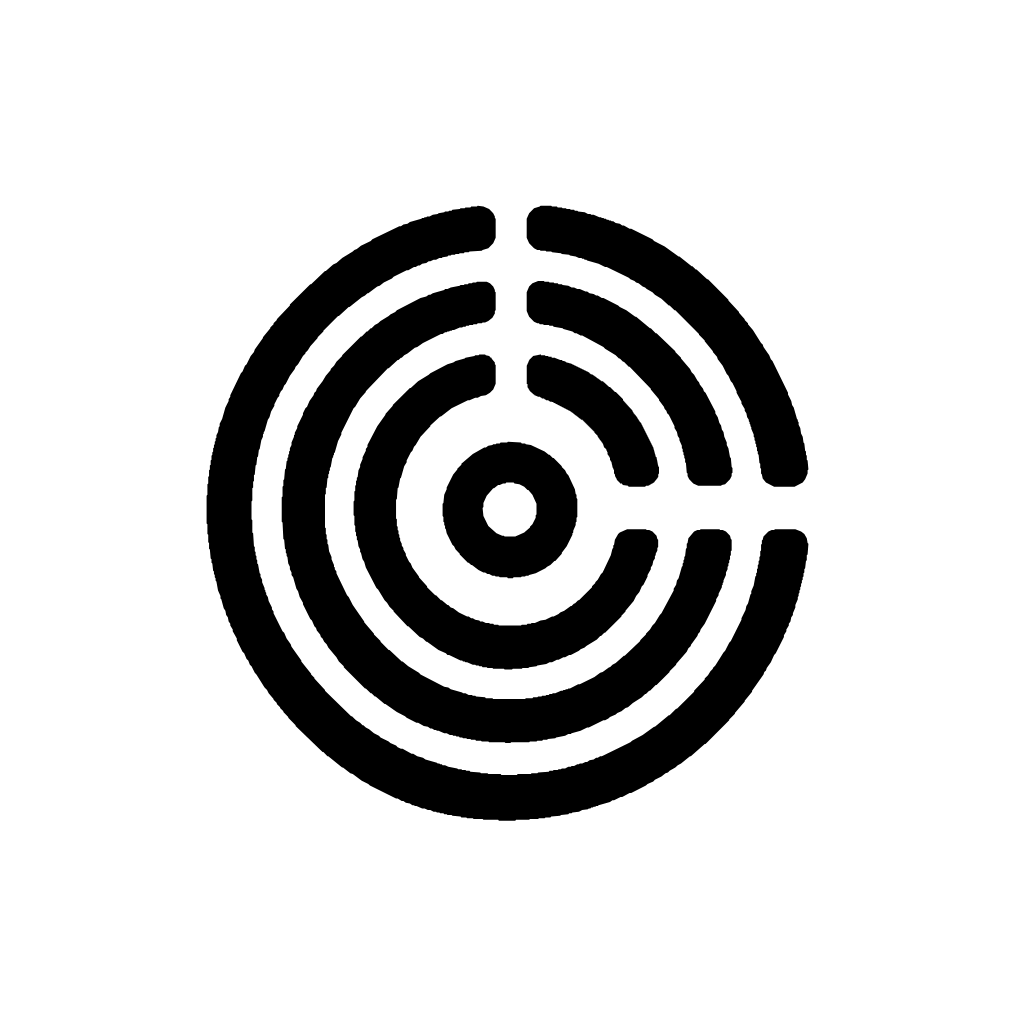
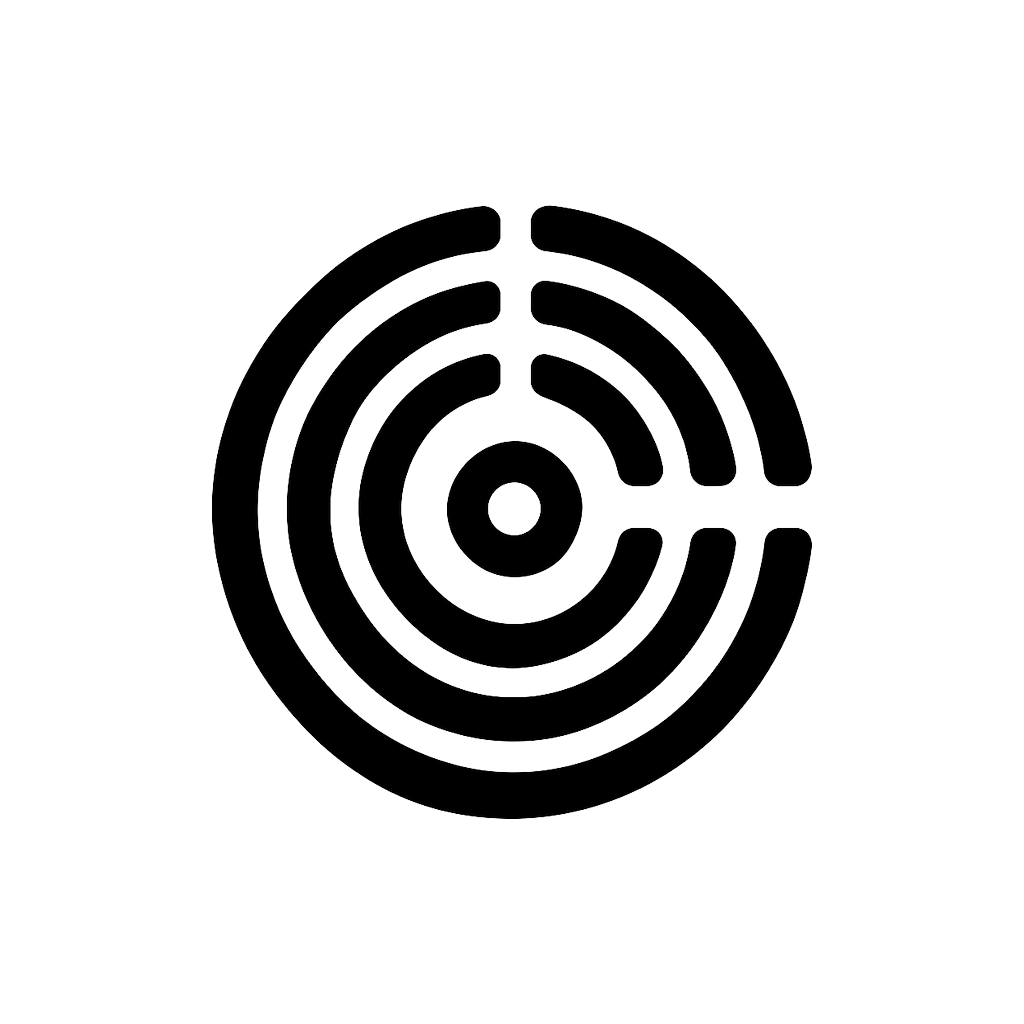
图标统一为白底同心环：应用图标按图片比例重出三件套、GitHub 图标改用 PNG；启动页白底

diff --git a/README.md b/README.md
@@ -1,4 +1,4 @@
-<img src="docs/images/podlune-icon.svg" width="132" alt="Podlune 应用图标">
+<img src="docs/images/podlune-icon.png" width="132" alt="Podlune 应用图标">
 
 # Podlune
 
